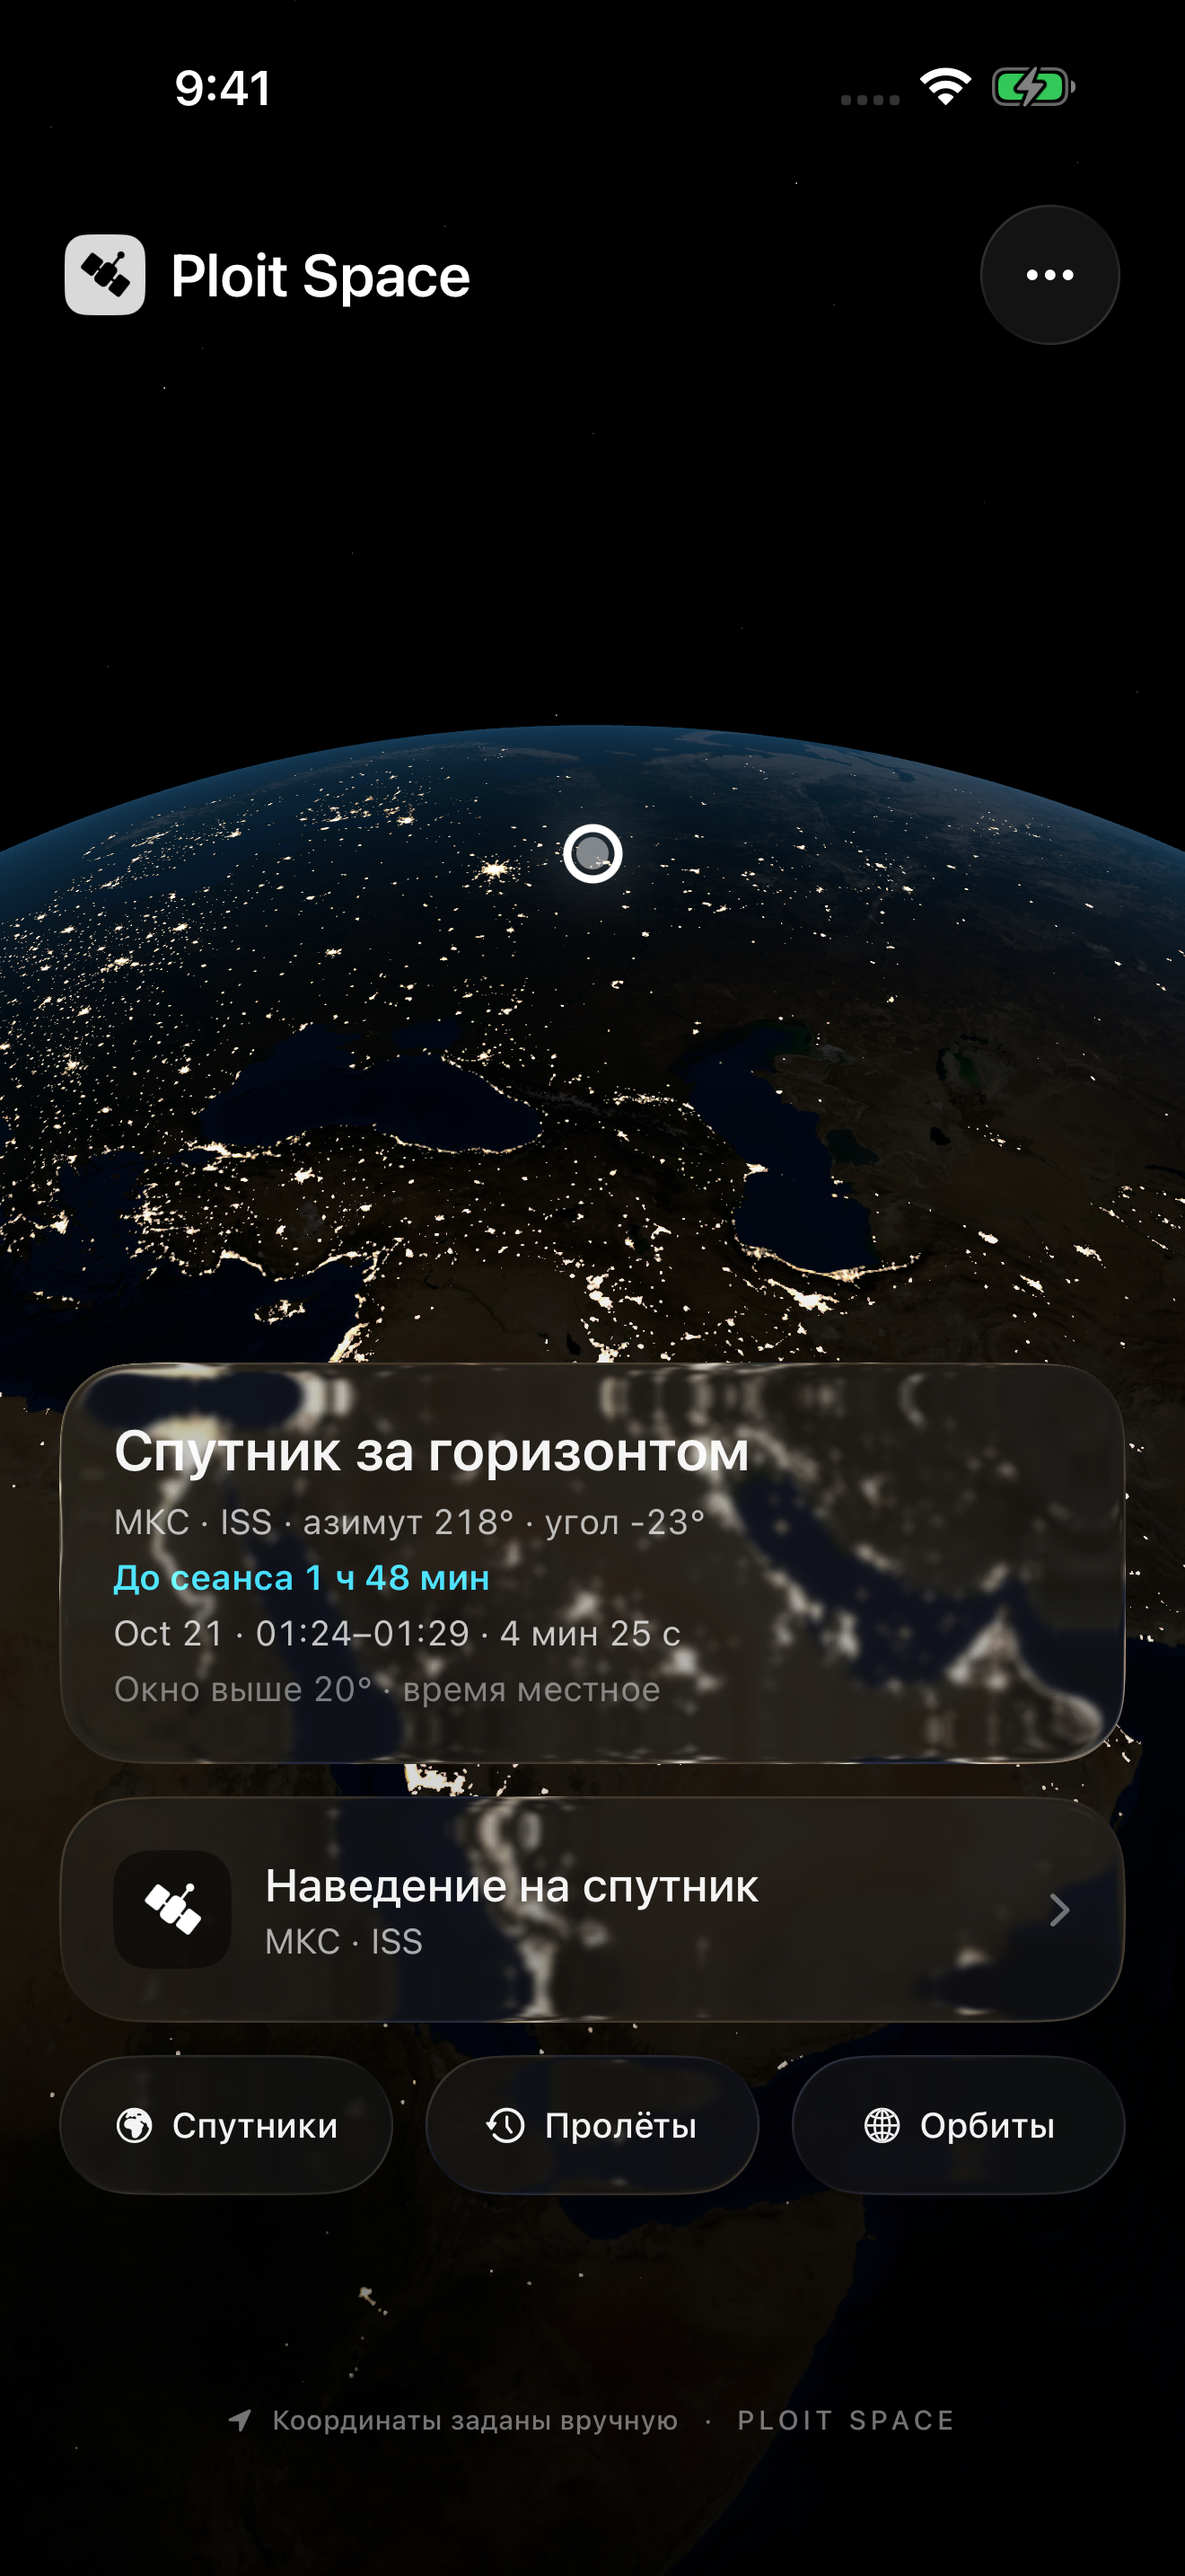
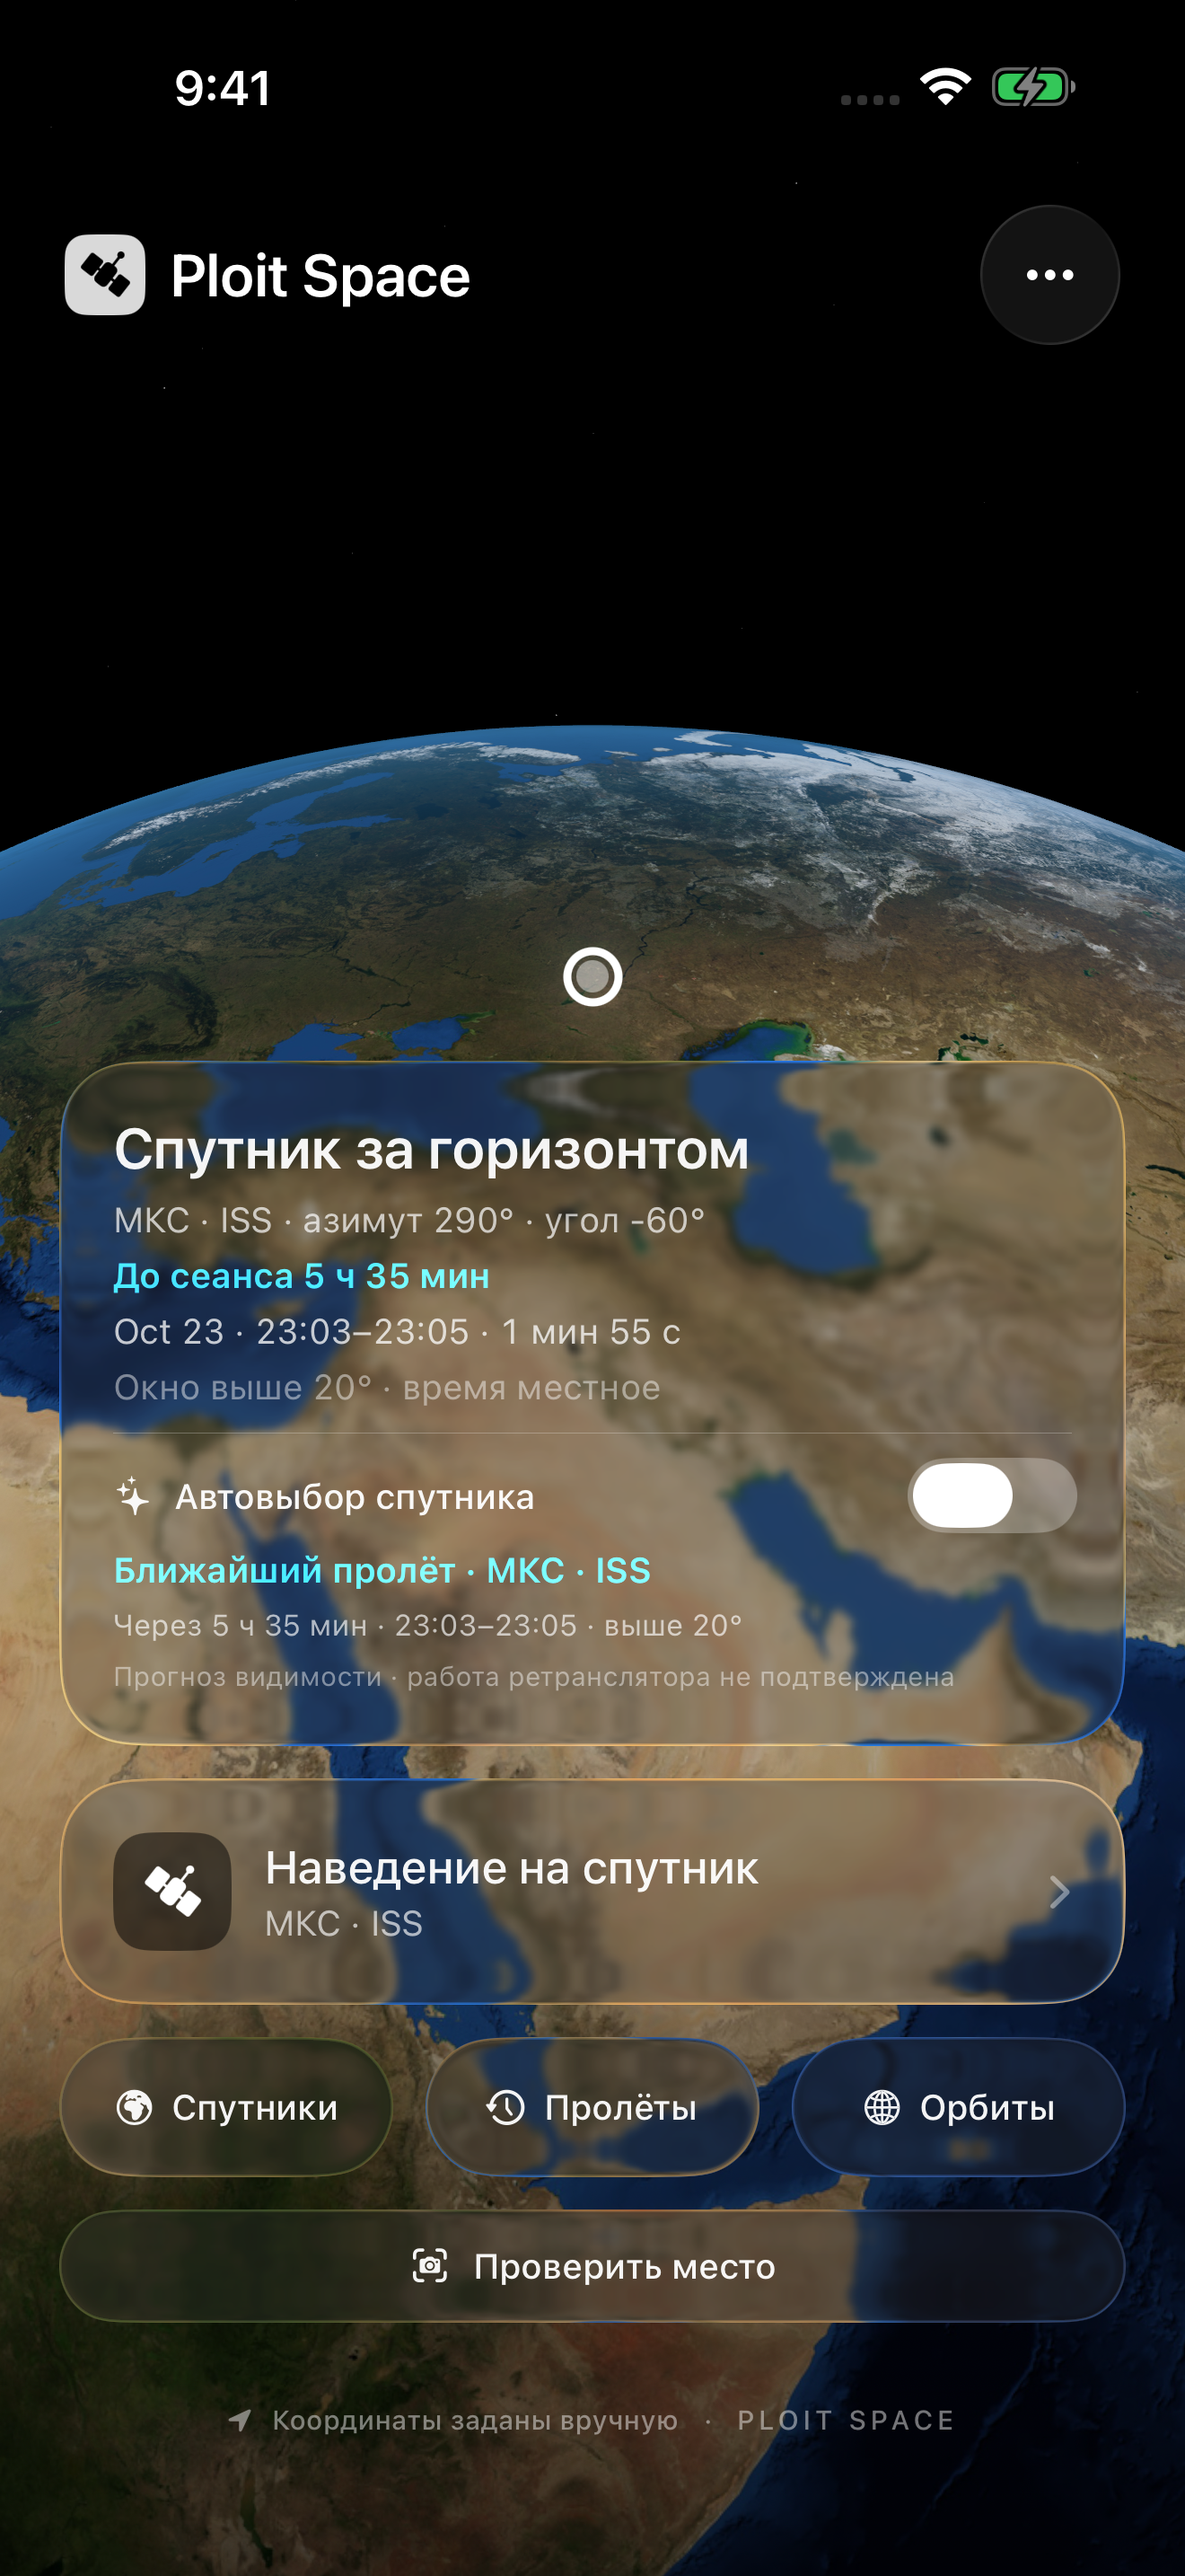
Refresh documentation screenshots for session and site checks [skip ci]

diff --git a/README.md b/README.md
@@ -58,6 +58,15 @@
 
 ### Проверка места перед сеансом
 
+<details>
+<summary>Экран проверки места</summary>
+
+<p align="center"><img src="docs/screenshots/site-scan.png" width="320" alt="Камера и пример карты обзора неба в Ploit Space"></p>
+
+*На снимке показан пример карты в симуляторе, без измерений камерой.*
+
+</details>
+
 Откройте «Проверить место» на главном экране и начните сканирование из точки установки антенны. Медленно обведите небо камерой, оставаясь на месте. Голубым отмечаются участки, которые подтверждены вручную как открытые; красным — препятствия, серым — неизвестные участки. Жёлтая линия показывает оставшийся путь выбранного пролёта.
 
 LiDAR отмечает измеренные близкие поверхности до 6 метров. Дальние здания, деревья, стекло и небо требуют ручной отметки по изображению камеры. Без LiDAR доступна ручная разметка. Отсутствие измеренной глубины не считается открытым небом. После перемещения нужна новая карта.
